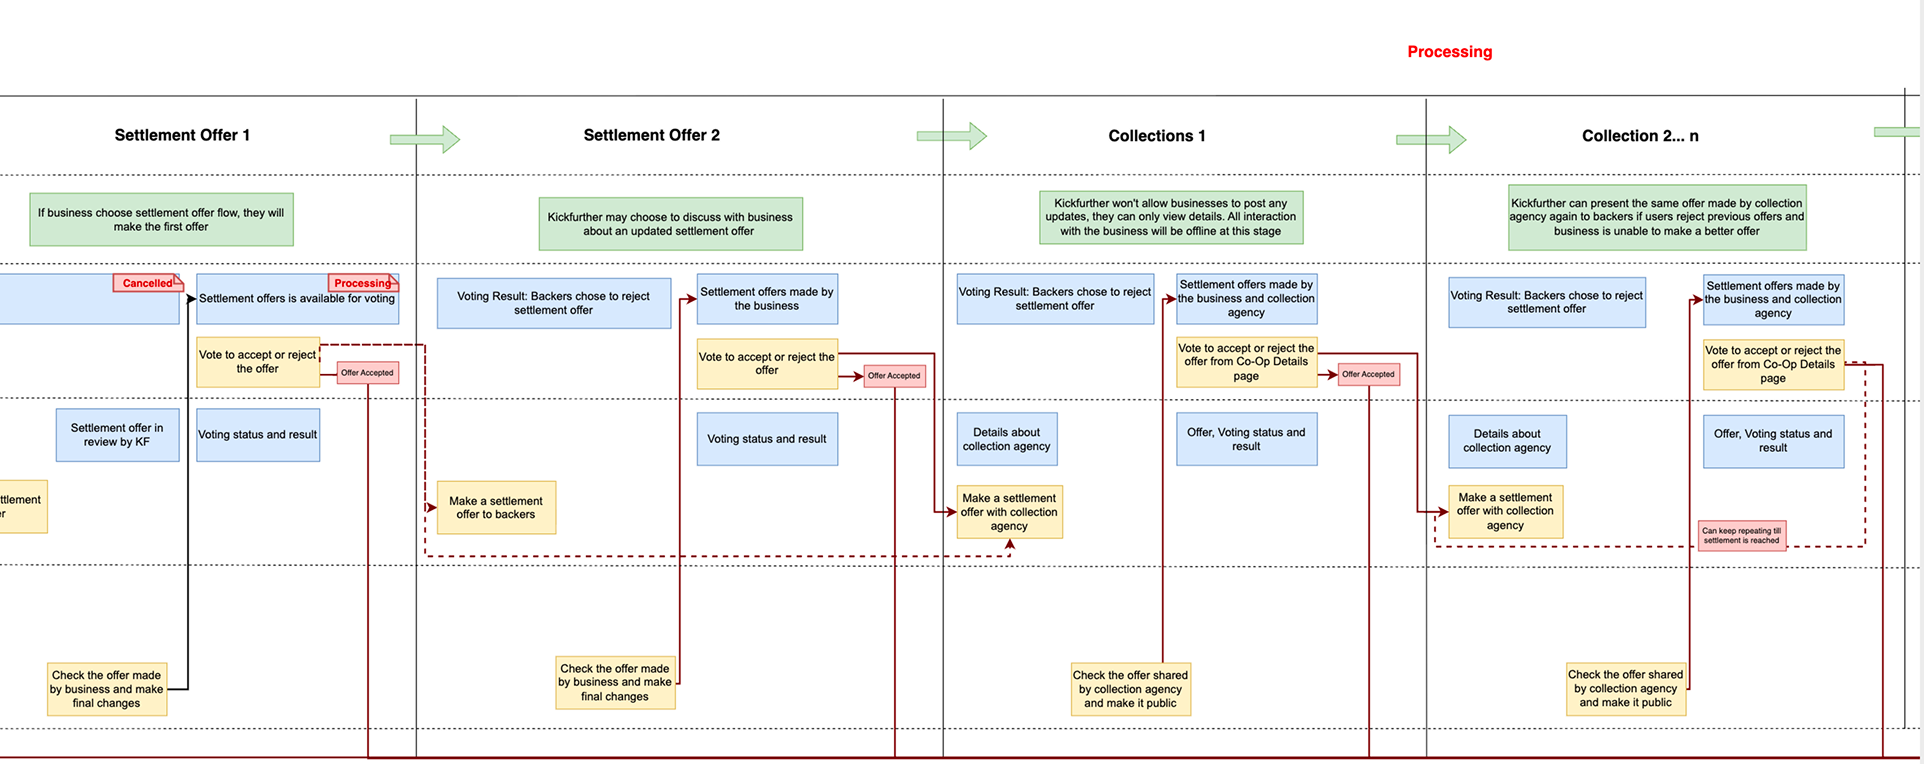
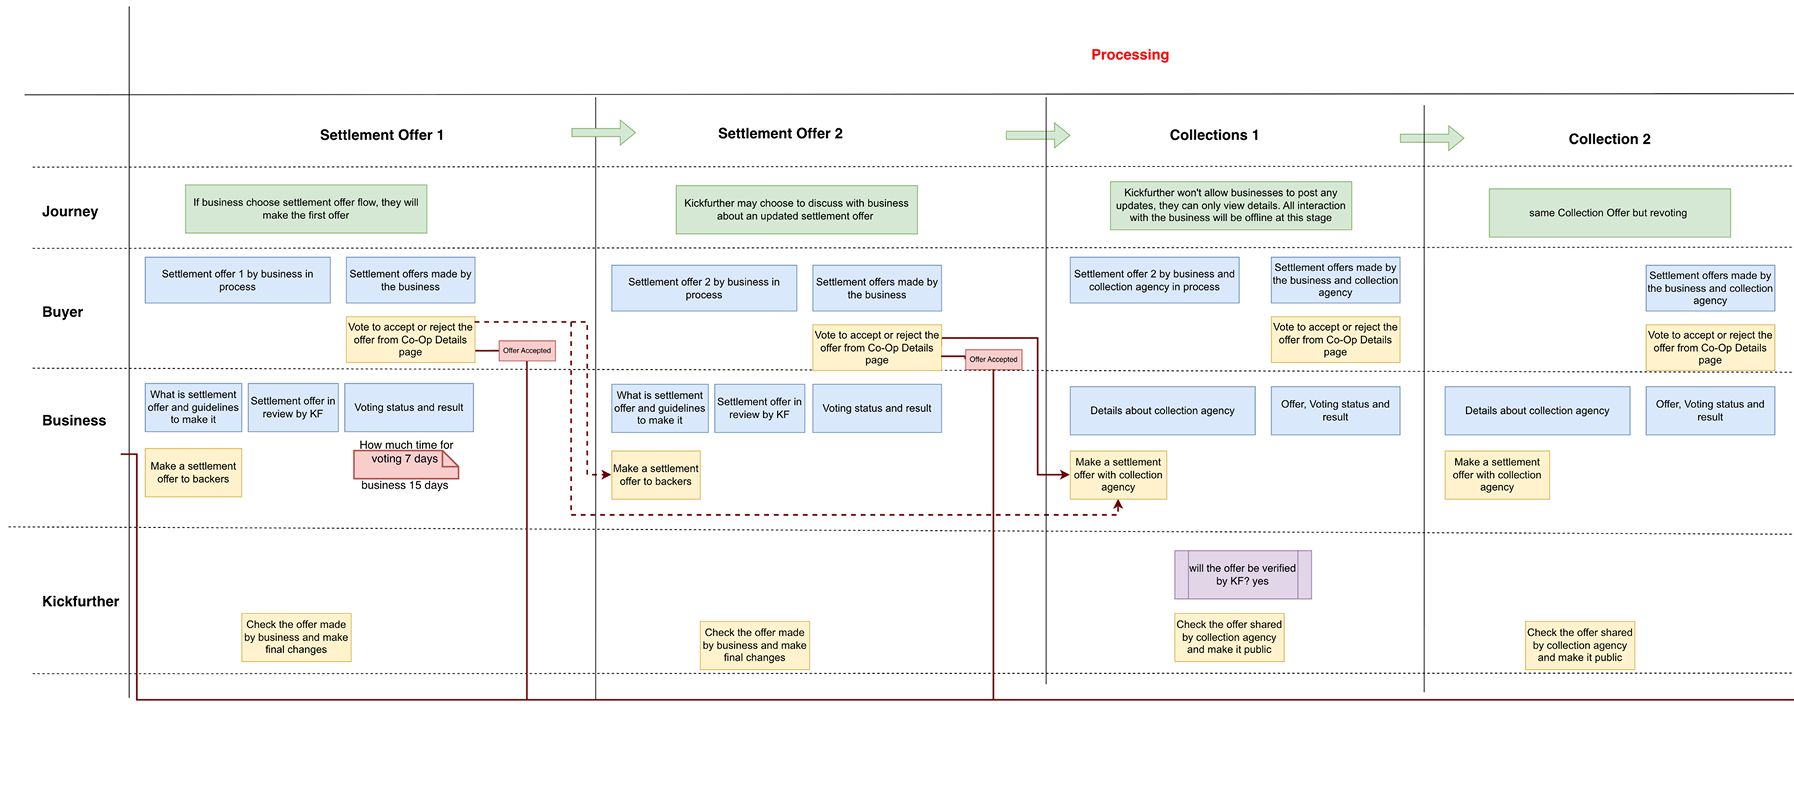
Resync Kickfurther case study with updated Figma; full-width case-study nav
Promote staging: Kickfurther page rebuilt to the updated Figma (full-width
nav on both case studies, Sora Light body, new/updated images in horizontal-
scroll containers, two-up "go deeper", compliance widget + team image +
"how the screens got there" removed). Clarity and the Gmail CTA are preserved.

Claude-Session: https://claude.ai/code/session_016mGArwkk2tk7sdjNBRDyw8

diff --git a/kickfurther.html b/kickfurther.html
@@ -25,10 +25,10 @@
 
   <link rel="preconnect" href="https://fonts.googleapis.com" />
   <link rel="preconnect" href="https://fonts.gstatic.com" crossorigin />
-  <link href="https://fonts.googleapis.com/css2?family=Fraunces:opsz,wght@9..144,400;9..144,500;9..144,600&family=Mukta:wght@400;500;600;700&family=Sora:wght@400;600&family=Geist+Mono:wght@400;500&display=swap" rel="stylesheet" />
+  <link href="https://fonts.googleapis.com/css2?family=Fraunces:opsz,wght@9..144,400;9..144,500;9..144,600&family=Mukta:wght@400;500;600;700&family=Sora:wght@300;400;600;700&family=Geist+Mono:wght@400;500&display=swap" rel="stylesheet" />
   <link rel="stylesheet" href="assets/css/styles.css" />
 </head>
-<body class="kf">
+<body class="kf cs">
 
   <!-- ===================== TOP NAV ===================== -->
   <header class="site-nav">
@@ -80,8 +80,8 @@
         <h1 class="hero__title">How do you build trust in a process no one can see?</h1>
         <p class="hero__subtitle">Redesigning what happens when a funding deal goes wrong, so no one is left in the dark.</p>
 
-        <figure class="asset-slot hero__image" data-caption="Fund your inventory — hero">
-          <img src="assets/img/kickfurther/hero.png" alt="Kickfurther — fund your inventory" />
+        <figure class="asset-slot hero__image" data-caption="Kickfurther deal-detail view — browser mockup">
+          <img src="assets/img/kickfurther/hero.png" alt="Kickfurther deal-detail dashboard shown in a browser mockup" />
         </figure>
 
         <dl class="meta">
@@ -95,7 +95,7 @@
           </div>
           <div class="meta__col">
             <dt>Team</dt>
-            <dd>1 PM</dd>
+            <dd>1 PM<br />1 UX &amp; UI Designer<br />Kickfurther team</dd>
           </div>
           <div class="meta__col">
             <dt>Skills</dt>
@@ -110,8 +110,8 @@
         <h2 class="section__title">Kickfurther: a marketplace that runs on trust.</h2>
         <p class="body">Picture a small business that&rsquo;s just landed the biggest order of its life. To fulfil it, they need to produce a lot of stock, and fast, which means they need cash now. A bank could lend it, but a bank takes its time: days of paperwork, approvals, and back-and-forth before any money actually moves. When there&rsquo;s an order to deliver and a deadline closing in, that kind of wait can cost you the whole deal.</p>
 
-        <figure class="asset-slot diagram diagram--marketplace" data-caption="How the marketplace works — backers, business, Kickfurther">
-          <img src="assets/img/kickfurther/marketplace.png" alt="Diagram: backer-lenders and a business-borrower connected through Kickfurther" />
+        <figure class="asset-slot diagram diagram--intro" data-caption="How Kickfurther connects backers, businesses, and the platform">
+          <img src="assets/img/kickfurther/intro.png" alt="How Kickfurther connects a crowd of backers with a business needing inventory funding" />
         </figure>
 
         <p class="body">Kickfurther offers another way. Instead of one big lender, the money comes from a crowd of individual investors: ordinary people, not banks, who each put in a share and together cover the cost of producing the inventory. The business gets its money quickly, makes the products, and as those products sell, everyone who chipped in gets their money back, plus a little extra. No slow loan, no giving away a piece of the company. When it works, everyone wins. But the whole thing balances on one fragile thing: trust. All those people are handing money to a business they&rsquo;ve never met, on a promise that the products will sell and the money will come back. As long as sales keep coming in and the business keeps everyone updated, that trust holds.</p>
@@ -153,21 +153,6 @@
       <!-- ===== THE PROBLEM ===== -->
       <section id="problem" class="section">
         <p class="eyebrow">The Problem</p>
-
-        <!-- Compliance status + alerts (recreated UI) -->
-        <div class="kf-status" role="img" aria-label="A deal's compliance status with three failing checks and required actions">
-          <div class="kf-status__tabs">
-            <span class="kf-status__tab"><span class="kf-x" aria-hidden="true">&times;</span> Meeting Original Commitments</span>
-            <span class="kf-status__tab"><span class="kf-x" aria-hidden="true">&times;</span> Timely Sales Reports</span>
-            <span class="kf-status__tab"><span class="kf-x" aria-hidden="true">&times;</span> Invoices Cleared</span>
-          </div>
-          <ul class="kf-alerts">
-            <li class="kf-alert">Mandatory Sales Report Pending. In order to be in compliance, <a href="#">Submit Sales Report Now</a></li>
-            <li class="kf-alert">Total Due Amount is $2,000. To get in compliance and avoid penalties, <a href="#">Make Payment Now</a></li>
-            <li class="kf-alert">Last update posted on 28 Jul 2021, <a href="#">Post an Update Now</a></li>
-          </ul>
-        </div>
-
         <h2 class="section__title">The Black Box.</h2>
         <p class="body">Most deals go fine. But every so often, a business gets buried in the work of actually selling and goes quiet. It stops posting updates. It misses a scheduled sales report. A payment slip. On paper, that trips a status called &ldquo;out of compliance.&rdquo; In plain terms: the business has fallen behind on what it promised, and the people who funded it are suddenly owed answers. If the business can pull things back on track, the deal will recover. If it can&rsquo;t, Kickfurther has to step in and carefully unwind the deal: chasing settlements, working out what can be recovered, and returning whatever money it can to the people who invested.</p>
         <p class="body">Here&rsquo;s the problem. That entire recovery process happened almost entirely outside the app, in emails, phone calls, and spreadsheets passed between teams. There was no single place to see what was happening, or what came next.</p>
@@ -188,30 +173,38 @@
         <h2 class="section__title">Mapping the invisible.</h2>
 
         <h3 class="kf-subhead">Start with the happy path</h3>
-        <figure class="asset-slot diagram diagram--flow" data-caption="Mapping the deal's normal life — the happy path">
-          <img src="assets/img/kickfurther/happy-path.png" alt="Flow map of a funding deal's normal life from start to finish" />
+        <p class="body">You can&rsquo;t fix a process until you can see all of it in one place, and back then, no one could. So the first thing I did was draw it. I began with the deal&rsquo;s normal life: how a funding deal moves from start to finish when everything goes right. For the happy path, it came together cleanly. But the moment a deal went bad, the map went vague. The steps thinned out, the detail fell away, and it was clear no one had ever really charted what happened after things went wrong. That blank space on the map was the problem. The failure path was the part nobody owned.</p>
+        <figure class="asset-slot kf-scroll" data-caption="The deal&rsquo;s normal life — the happy path (scroll to explore)">
+          <img src="assets/img/kickfurther/happy-path.png" alt="Flowchart of a funding deal's normal lifecycle: funded, meeting commitments, satisfied, repeating until sold" />
         </figure>
-        <p class="body">I didn&rsquo;t start with screens. You can&rsquo;t fix a process until you can see all of it in one place, and back then, no one could. So the first thing I did was draw it. I began with the deal&rsquo;s normal life: how a funding deal moves from start to finish when everything goes right. For the happy path, it came together cleanly. But the moment a deal went bad, the map went vague. The steps thinned out, the detail fell away, and it was clear no one had ever really charted what happened after things went wrong. That blank space on the map was the problem. The failure path was the part nobody owned.</p>
 
         <h3 class="kf-subhead">Go deeper into the cancellation flow</h3>
-        <p class="body">So I went straight at that part: what actually happens when a deal falls out of good standing. I sat with the teams who touched it (product, operations, legal, and customer service) and asked each of them to walk me through it. What I got back were different walkthroughs. Every team described the process a little differently, and no two versions quite lined up. That mismatch wasn&rsquo;t noise. It was the finding. If the people running the process couldn&rsquo;t tell the same story about it, of course the investors and businesses on the outside were lost. The black box wasn&rsquo;t just invisible to users; it was fuzzy even inside the company. That was the real thing to solve.</p>
-
-        <h3 class="kf-subhead">Build a first version from my own understanding</h3>
-        <div class="kf-strip" role="group" aria-label="Service blueprint — stage-zero draft, scroll to see all three frames">
-          <figure class="asset-slot kf-strip__item" data-caption="Blueprint — frame 1">
-            <img src="assets/img/kickfurther/blueprint-1.png" alt="Service blueprint, frame 1" />
+        <p class="body">So I went straight at that part: what actually happens when a deal falls out of good standing. I sat with the teams who touched it (product, operations, legal, and customer service) and asked each of them to walk me through it. What I got back were different walkthroughs. Every team described the process a little differently, and no two versions quite lined up.</p>
+        <div class="kf-duo">
+          <figure class="asset-slot kf-duo__item" data-caption="The no-confidence / cancellation flow">
+            <img src="assets/img/kickfurther/cancellation-1.png" alt="Flowchart of the flagged-to-cancelled no-confidence voting flow" />
           </figure>
-          <figure class="asset-slot kf-strip__item" data-caption="Blueprint — frame 2">
-            <img src="assets/img/kickfurther/blueprint-2.png" alt="Service blueprint, frame 2" />
-          </figure>
-          <figure class="asset-slot kf-strip__item" data-caption="Blueprint — frame 3">
-            <img src="assets/img/kickfurther/blueprint-3.png" alt="Service blueprint, frame 3" />
+          <figure class="asset-slot kf-duo__item" data-caption="Walking the flow with the teams">
+            <img src="assets/img/kickfurther/cancellation-2.png" alt="A working session with the teams, reviewing the Kickfurther dashboard together" />
           </figure>
         </div>
-        <p class="body">Rather than wait until I understood everything, I drew a first version myself: a rough &ldquo;stage zero,&rdquo; built from what I&rsquo;d pieced together so far, gaps and all. It&rsquo;s better to put a rough draft in front of people than to wait for a perfect version that never gets finished. I laid it out as a service blueprint: three lanes for the three sides of every deal, the buyer (the investor), the business, and Kickfurther, with a top journey row naming each stage in plain English so any reader knows where they are. And within each lane I tracked two things at every step: the information that side could see, and the actions they could take. That information-and-action split is what made the gaps jump out. You could stop at any stage and see it instantly: &ldquo;the buyer has no information here.&rdquo; &ldquo;Only Kickfurther can act, and nobody told anyone.&rdquo; The blueprint didn&rsquo;t just show the process. It showed exactly where each side went blind or got stuck.</p>
+        <p class="body">That mismatch wasn&rsquo;t noise. It was the finding. If the people running the process couldn&rsquo;t tell the same story about it, of course the investors and businesses on the outside were lost. The black box wasn&rsquo;t just invisible to users; it was fuzzy even inside the company. That was the real thing to solve.</p>
+
+        <h3 class="kf-subhead">Build a first version from my own understanding</h3>
+        <figure class="asset-slot kf-scroll" data-caption="Stage-zero service blueprint — the rough first draft (scroll to explore)">
+          <img src="assets/img/kickfurther/blueprint-1.png" alt="Rough stage-zero service blueprint with open questions across the buyer, business, and Kickfurther lanes" />
+        </figure>
+        <p class="body">Rather than wait until I understood everything, I drew a first version myself: a rough &ldquo;stage zero,&rdquo; built from what I&rsquo;d pieced together so far, gaps and all. It&rsquo;s better to put a rough draft in front of people than to wait for a perfect version that never gets finished. I laid it out as a service blueprint: three lanes for the three sides of every deal, the buyer (the investor), the business, and Kickfurther, with a top journey row naming each stage in plain English so any reader knows where they are. And within each lane I tracked two things at every step: <strong>the information that side could see, and the actions they could take.</strong> That information-and-action split is what made the gaps jump out. You could stop at any stage and see it instantly: &ldquo;the buyer has no information here.&rdquo; &ldquo;Only Kickfurther can act, and nobody told anyone.&rdquo; The blueprint didn&rsquo;t just show the process. It showed exactly where each side went blind or got stuck.</p>
 
         <h3 class="kf-subhead">Take it back to the teams</h3>
-        <p class="body">The stage-zero blueprint was a draft to argue with, not the answer. So I took it back out. First to product and customer service. They verified the day-to-day flow and filled the gaps in what I&rsquo;d drawn. Then to legal and compliance, who were the hardest to get time with, so I reached them last, and they held the most important piece. The later stages weren&rsquo;t arbitrary labels. Settlement Offer 1 and 2, then Collections 1, 2&hellip; n, each carried a precise meaning rooted in the actual laws Kickfurther operated under: a first settlement offer the business puts to a backer vote, a revised second offer if that&rsquo;s rejected, then a collection agency stepping in, its offer re-presented round after round until a settlement is finally reached. Legal and compliance didn&rsquo;t just fill gaps; they explained why the process had the shape it did. That was the input that turned the map from plausible into correct. Pass by pass, the blueprint got closer to reality on all three sides, until it stopped being my interpretation and became the single shared source of truth the whole team could point at. It&rsquo;s the artefact the UX Design Award submission credits with &ldquo;refining workflows and driving consensus&rdquo; across departments.</p>
+        <p class="body">The stage-zero blueprint was a draft to argue with, not the answer. So I took it back out. First to product and customer service. They verified the day-to-day flow and filled the gaps in what I&rsquo;d drawn.</p>
+        <figure class="asset-slot kf-scroll" data-caption="Refined blueprint after product &amp; customer service (scroll to explore)">
+          <img src="assets/img/kickfurther/blueprint-2.png" alt="Refined service blueprint covering out-of-compliance, flagged, and cancelled stages" />
+        </figure>
+        <p class="body">Then to legal and compliance, who were the hardest to get time with, so I reached them last, and they held the most important piece. The later stages weren&rsquo;t arbitrary labels. Settlement Offer 1 and 2, then Collections 1, 2&hellip; n, each carried a precise meaning rooted in the actual laws Kickfurther operated under: a first settlement offer the business puts to a backer vote, a revised second offer if that&rsquo;s rejected, then a collection agency stepping in, its offer re-presented round after round until a settlement is finally reached. Legal and compliance didn&rsquo;t just fill gaps; they explained why the process had the shape it did. That was the input that turned the map from plausible into correct. Pass by pass, the blueprint got closer to reality on all three sides, until it stopped being my interpretation and became the single shared source of truth the whole team could point at. It&rsquo;s the artefact the UX Design Award submission credits with &ldquo;refining workflows and driving consensus&rdquo; across departments.</p>
+        <figure class="asset-slot kf-scroll" data-caption="Final blueprint — settlement offers &amp; collections, defined with legal &amp; compliance (scroll to explore)">
+          <img src="assets/img/kickfurther/blueprint-3.png" alt="Final service blueprint covering settlement offers and collections stages" />
+        </figure>
       </section>
 
       <!-- ===== DELIVERY ===== -->
@@ -221,25 +214,19 @@
         <p class="body">The blueprint gave everyone one version of the truth. The design job was to turn that single process into three views, because each side needed to see the same thing differently. Two rules guided all of it: always show people where things stand, and never leave them at a dead end without a next step.</p>
 
         <h3 class="kf-subhead">For the investor: a window into their money</h3>
-        <figure class="asset-slot diagram diagram--investor" data-caption="Investor deal-detail view">
-          <img src="assets/img/kickfurther/investor.png" alt="Investor deal-detail view with status indicators, a live no-confidence vote, and a financial summary" />
-        </figure>
         <p class="body">I built a deal-detail view that shows exactly where things stand. Three status indicators sit at the top (Meeting Original Commitments, Timely Sales Reports, and Invoices Cleared), giving an at-a-glance read on the deal&rsquo;s health. When a deal is flagged, the screen says why in plain language, listing the exact conditions that tripped it. The No-Confidence vote is shown live, with a bar tracking how much weighted ownership has voted, and the investor can cast their vote right there. A visual lifecycle shows how far along the recovery is, and a financial summary (claims and projected payouts) keeps the money concrete, never abstract. Why: the investor&rsquo;s whole problem was not knowing. Every element answers a question they used to have to email support to ask.</p>
+        <figure class="asset-slot diagram diagram--investor" data-caption="The investor&rsquo;s deal-detail flow across every state">
+          <img src="assets/img/kickfurther/investor.png" alt="Investor deal-detail views with status indicators, a live no-confidence vote, settlement voting, and a financial summary" />
+        </figure>
 
         <h3 class="kf-subhead">For the business: the same status, made actionable</h3>
-        <figure class="asset-slot diagram diagram--business" data-caption="Business dashboard with alert banners and next steps">
-          <img src="assets/img/kickfurther/business.png" alt="Business dashboard showing the same status indicators paired with actionable alert banners" />
+        <figure class="asset-slot diagram diagram--business" data-caption="Business deal-detail view with settlement options">
+          <img src="assets/img/kickfurther/business.png" alt="Business deal-detail view showing the same status indicators paired with clear next-step actions" />
         </figure>
         <p class="body">The business sees the same three indicators, but paired with alert banners that each carry one clear action: submit the pending sales report, clear the overdue payment, post an update. Below them, a plain-language explanation of why you&rsquo;re flagged, what it means, and the exact steps back to good standing. Why: the business didn&rsquo;t need sympathy, it needed to know what to fix, and that answer now lives in the dashboard instead of a support call.</p>
 
         <h3 class="kf-subhead">For the team: the workflow they never had</h3>
-        <figure class="asset-slot diagram diagram--wide" data-caption="The documented workflow / service diagram">
-          <img src="assets/img/kickfurther/team-flow.png" alt="The documented team workflow as a service diagram" />
-        </figure>
         <p class="body">The blueprint itself became the documented workflow, and its logic surfaced in the product: compliance status on the dashboard with action-required items pushed to the top, and overdue tasks marked with a red beacon in the navigation so nothing slipped. Why: the team&rsquo;s problem was that the process lived in people&rsquo;s heads and inboxes. Now it lived in one place, the same place everyone else could see.</p>
-
-        <h3 class="kf-subhead">How the screens got there</h3>
-        <p class="body">None of these views arrived in one pass. The layouts moved through several rounds of wireframes, refined with the team and tightened through testing, until each screen showed the right thing first and every action read clearly.</p>
       </section>
 
       <!-- ===== IMPACT ===== -->

diff --git a/assets/css/styles.css b/assets/css/styles.css
@@ -893,9 +893,11 @@ body.kf {
   font-optical-sizing: auto;
 }
 .kf .body {
-  font-size: clamp(18px, 2.2vw, 22px);
-  line-height: 1.45;
-  color: var(--grey-500);
+  font-family: var(--font-body);      /* Sora (Figma "Body Regular 22") */
+  font-weight: 300;                    /* Light */
+  font-size: 18px;
+  line-height: 26px;
+  color: var(--grey-700);
 }
 
 /* ---- Sub-section headings (Ek Mukta Medium 26) ---- */
@@ -912,12 +914,15 @@ body.kf {
        subtle grey-40 fill + orange left rule (per Figma) ---- */
 .kf .hmw { gap: 30px; }
 .kf .hmw__item {
+  font-family: var(--font-body);
+  font-weight: 300;
   font-style: normal;
-  font-size: clamp(18px, 2.2vw, 22px);
-  line-height: 1.45;
-  color: var(--grey-700);
-  background: var(--grey-40);
-  padding: 6px 0 6px 15px;
+  font-size: 18px;
+  line-height: 26px;
+  color: var(--grey-600);
+  background: var(--grey-100);
+  border-left: 2px solid #ff910a;      /* Figma tangy-orange/500 */
+  padding: 6px 15px;
 }
 .kf .hmw__item strong { color: var(--grey-700); font-weight: 700; }
 
@@ -1087,6 +1092,52 @@ body.kf {
   body.kf { font-size: 17px; }
   .kf-stats { grid-template-columns: 1fr; }
   .kf-strip__item { flex-basis: 92%; }
+}
+
+/* =====================================================================
+   Case-study updates (Figma "KF Page" resync)
+   ===================================================================== */
+
+/* Full-width top nav on case-study pages (brand hard-left, links hard-right) */
+.cs .site-nav__rail { display: none; }
+.cs .site-nav__col  { max-width: none; }
+
+/* Introduction marketplace diagram */
+.kf .diagram--intro { aspect-ratio: 848 / 372; }
+.kf .asset-slot.is-missing.diagram--intro::after { min-height: 240px; }
+
+/* Wide flow maps / service blueprints — readable height, scroll horizontally */
+.kf .kf-scroll {
+  margin: 8px 0 32px;
+  overflow-x: auto;
+  overflow-y: hidden;
+  -webkit-overflow-scrolling: touch;
+}
+.kf .kf-scroll:has(img) {
+  border: 1px solid var(--grey-200);
+  border-radius: 10px;
+  background: var(--grey-40);
+}
+.kf .kf-scroll img {
+  height: clamp(280px, 46vw, 460px);
+  width: auto;
+  max-width: none;
+}
+.kf .asset-slot.is-missing.kf-scroll::after { min-height: 300px; }
+
+/* Two-up screenshot row (Go deeper into the cancellation flow) */
+.kf .kf-duo {
+  display: flex;
+  gap: 20px;
+  align-items: stretch;
+  margin: 8px 0 32px;
+}
+.kf .kf-duo__item { flex: 1 1 0; min-width: 0; margin: 0; }
+.kf .asset-slot.is-missing.kf-duo__item::after { min-height: 220px; }
+
+@media (max-width: 640px) {
+  .kf .kf-duo { flex-direction: column; }
+  .kf .kf-scroll img { height: 260px; }
 }
 
 

diff --git a/sahayya.html b/sahayya.html
@@ -28,7 +28,7 @@
   <link href="https://fonts.googleapis.com/css2?family=Fraunces:opsz,wght@9..144,400;9..144,500;9..144,600&family=Mukta:wght@400;500;600;700&family=Sora:wght@400;600&family=Geist+Mono:wght@400;500&display=swap" rel="stylesheet" />
   <link rel="stylesheet" href="assets/css/styles.css" />
 </head>
-<body>
+<body class="cs">
 
   <!-- ===================== TOP NAV ===================== -->
   <header class="site-nav">
